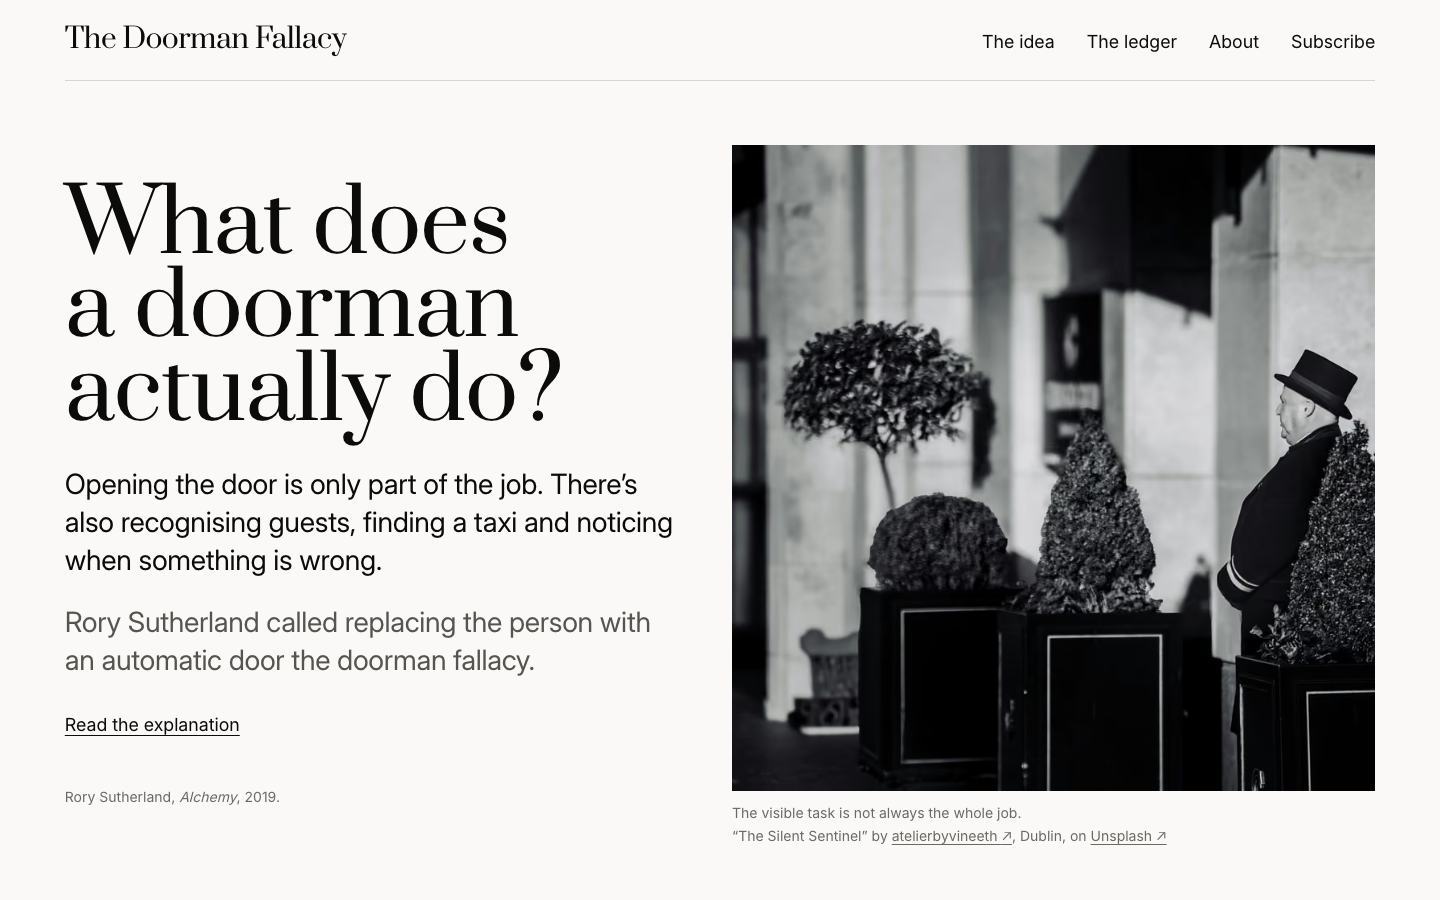
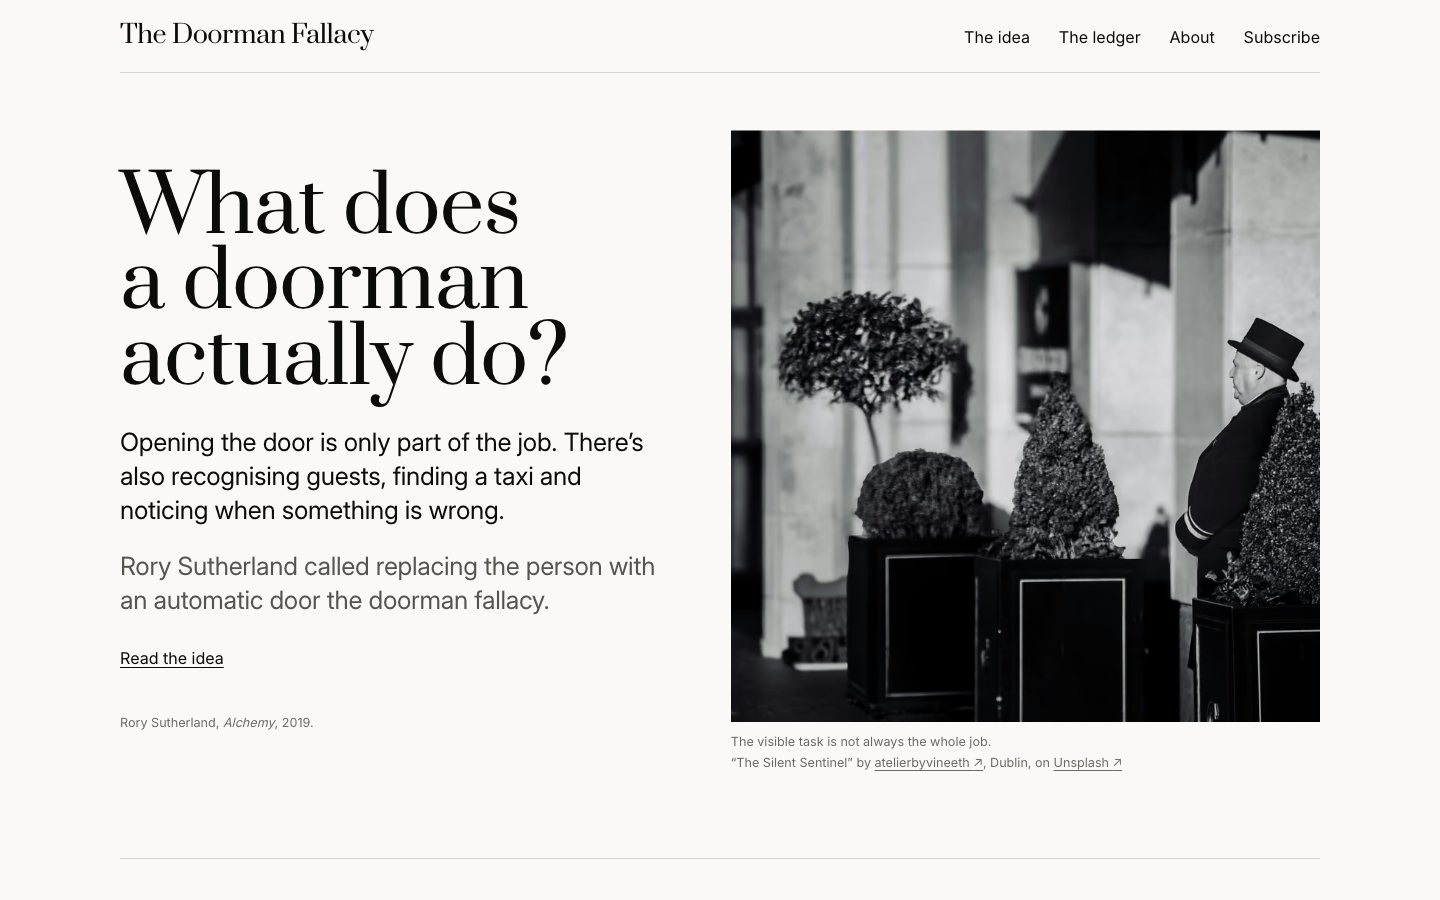
Ready the repository to go public: README, screenshot, version 0.2.0
The README described the desk as it was on 19 October: Claude at about $0.20 a call, no follow-up and no readers' suggestions. It now gives each stage as it runs, says "an AI agent" (Jan, 2026-11-11: public copy names no model), adds the weekly review, and lists the keys and the Wrangler login the desk needs. The screenshot is retaken at the current scale. The Playwright browser tool's folder is ignored. Version 0.2.0 marks the first public state, in package.json and the lockfile alike.

diff --git a/README.md b/README.md
@@ -24,18 +24,20 @@ The writing agent never types a quote. It cites sentences by number, code copies
 
 ## The desk
 
-The desk finds cases each week, cheapest stage first. Most AI layoff news is not a doorman case: many cuts fund AI investment, and AI does not take over the cut roles' work.
+Each week the desk follows up every case and looks for new ones, cheapest stage first. Most AI layoff news is not a doorman case: many cuts fund AI investment, and AI does not take over the cut roles' work.
 
 | Stage | Who | Cost |
 |---|---|---|
-| Sweep news searches | Code | Free |
+| Read readers' suggestions and error reports | Code | Free |
+| Sweep news searches | Code | A fraction of a cent per search |
 | Triage each headline | Jev | Fractions of a cent per lead |
 | Rank by doorman priority | Code | Free |
-| Assess the strongest leads | Claude | About $0.20 per organisation |
-| Write the case | Claude | About $0.20 per case |
+| Assess the strongest leads | An AI agent | About $0.03 per organisation |
+| Write the case | An AI agent | About $0.07 per case |
 | Check every statement | Jev and code | Under $0.001 per case |
+| Review every case for news since its last check | An AI agent, Jev and code | $0.02 to $0.10 per case |
 
-Every paid call goes through one budget per run. [docs/desk.md](docs/desk.md) has the design and what the first runs showed.
+A review adds what was reported since the last check, under the same checks as a new case, and new material needs one primary source or two independent reports of its own. A correction's words are written by code, never by a reader or a model. Every paid call goes through one budget per run, $3 a week. [docs/desk.md](docs/desk.md) has the design and what the runs showed.
 
 ## Run it
 
@@ -49,12 +51,13 @@ npm run build      # the static site into dist/
 npm run test:site  # browser checks against dist/
 ```
 
-The desk needs Claude Code, a TypeSafe key and archive.org keys in the macOS Keychain:
+The desk needs Claude Code, a DeepSeek key, a TypeSafe key and archive.org keys in the macOS Keychain, and a Wrangler login to read readers' suggestions:
 
 ```sh
-node desk/sweep.ts --size full --days 30 --sources gnews,gdelt,hn --budget 0.30
+node desk/sweep.ts --size full --days 30 --sources gnews,gdelt,hn,deepseek --budget 0.30
 node desk/assess.ts --top 4 --budget 1.50
 node desk/draft.ts --assessment .desk-runs/<run>/assessments/<org>.json --publish
+node desk/review.ts --case cba-2025 --due --publish   # follow up one case
 node desk/weekly.ts --budget 3   # every stage, as the Monday schedule runs it
 ```
 
